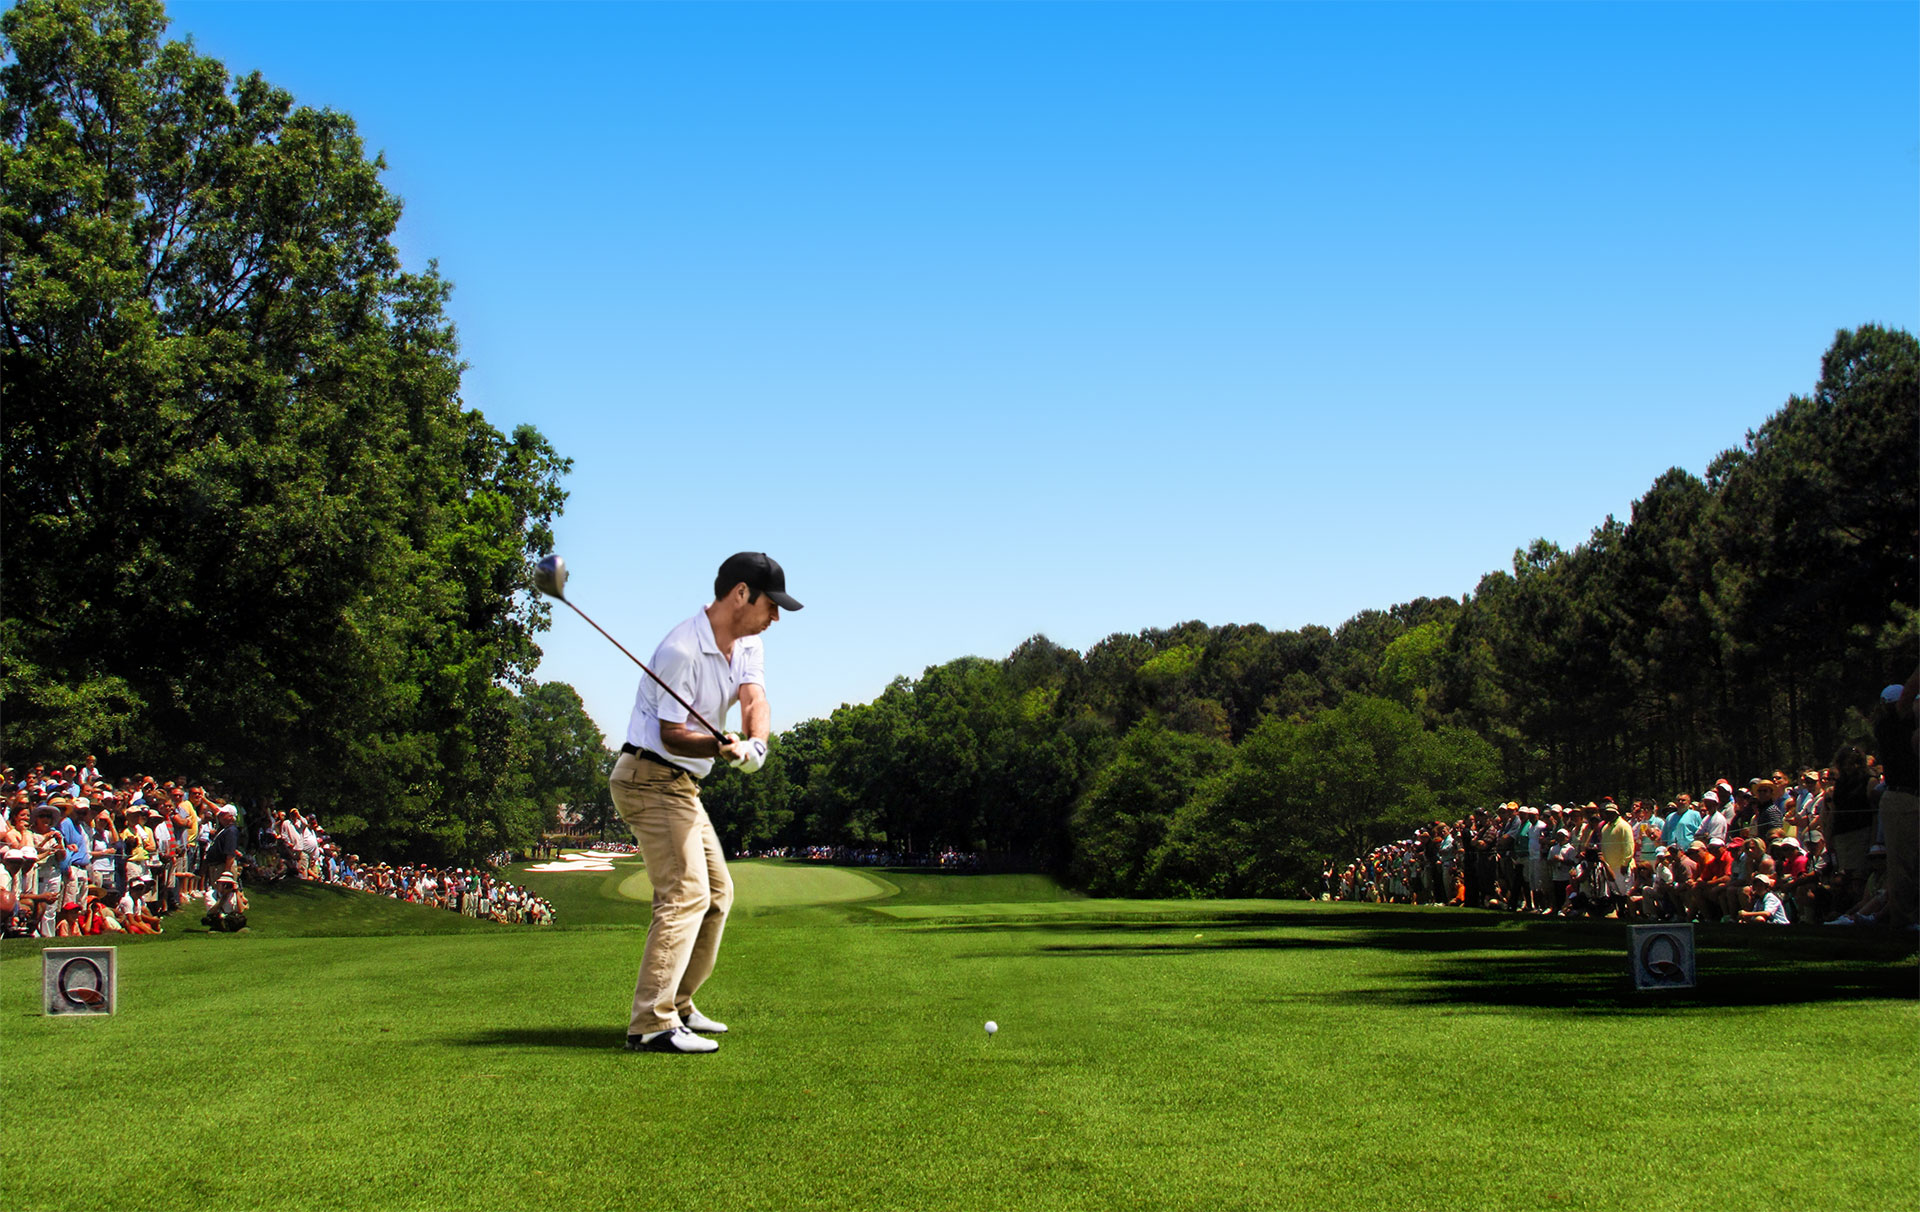
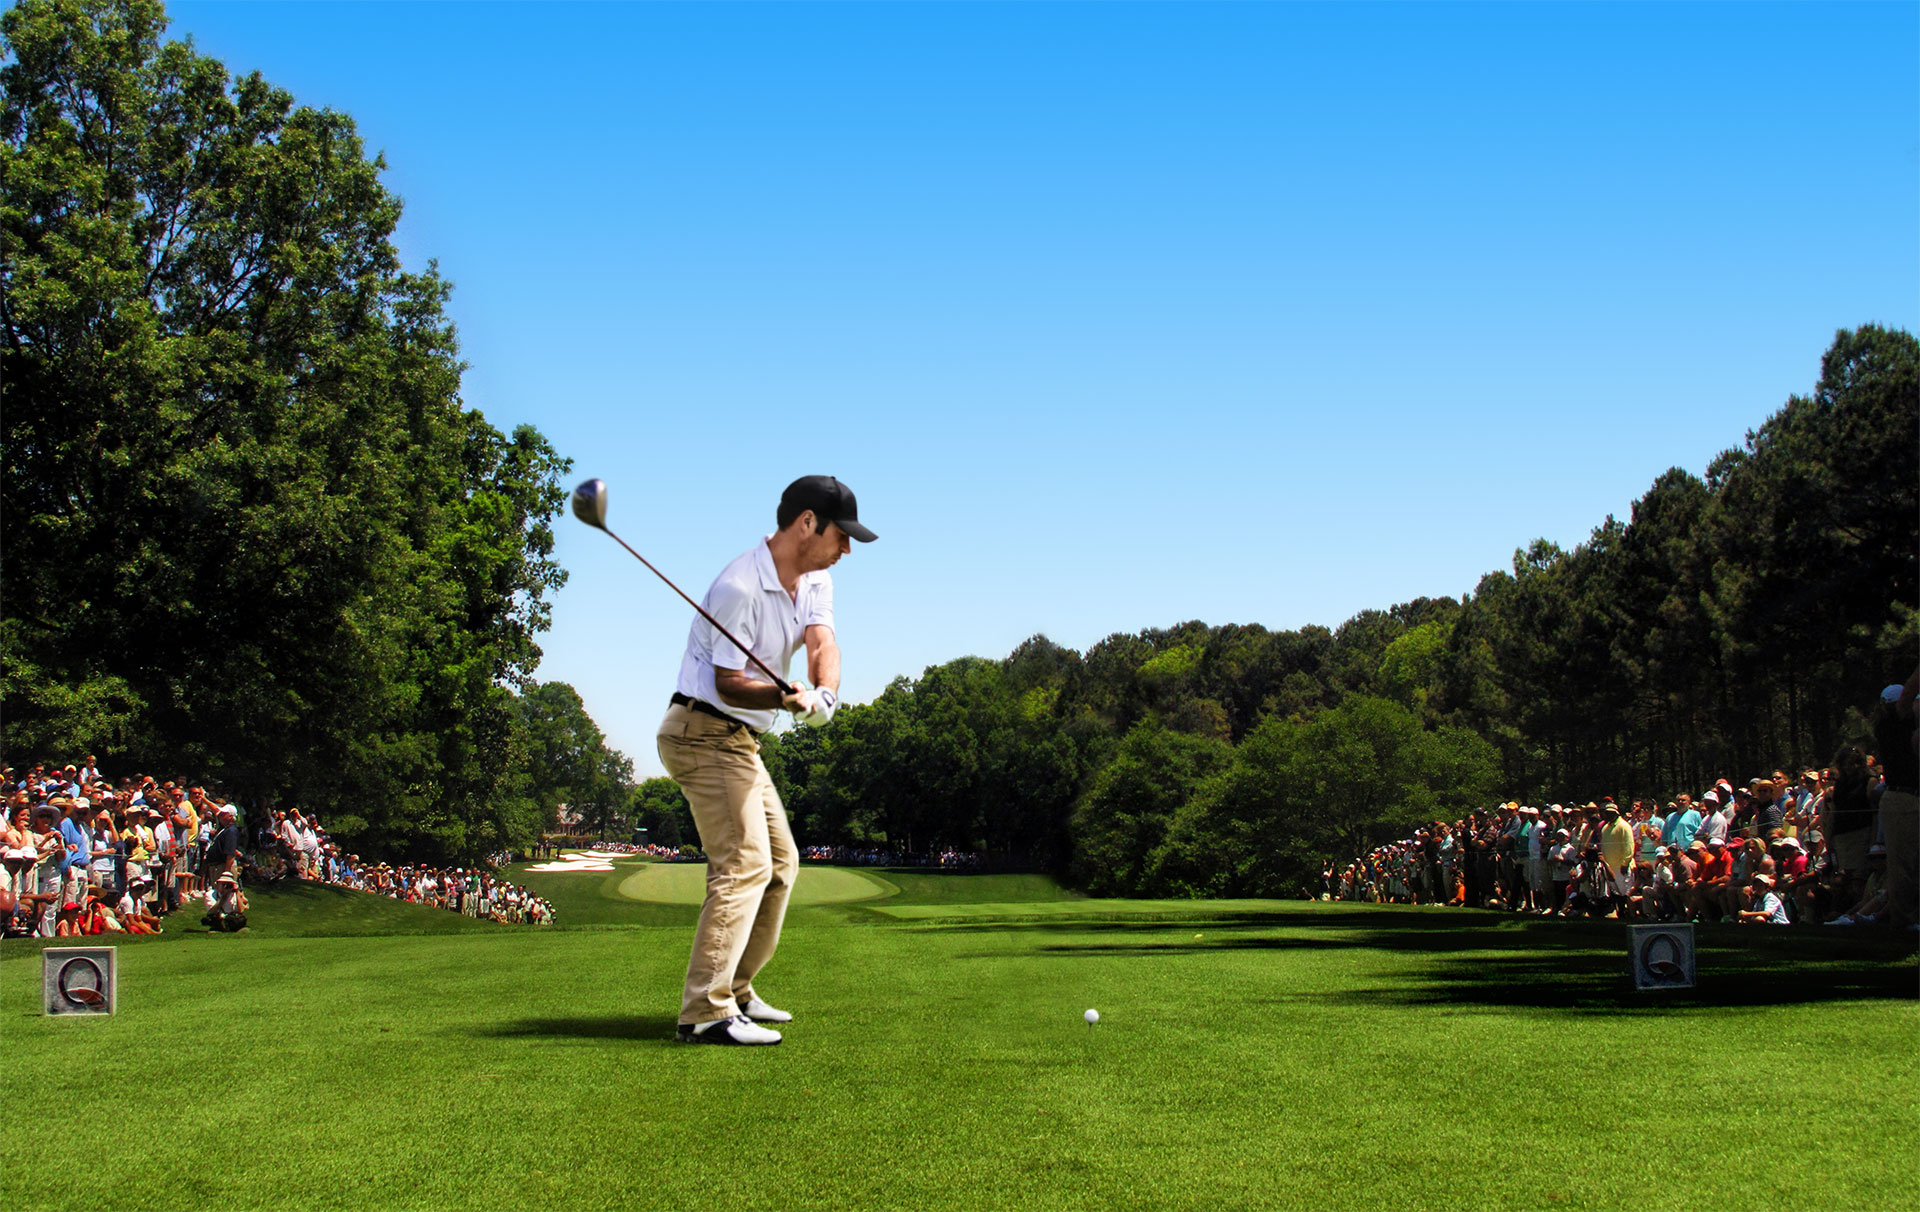
repaired golfer dude to eliminate  transparent png issue #17

Changed region(s): [[0.2188, 0.3663, 0.4688, 0.8853], [0.2812, 0.3969, 0.3438, 0.4579], [0.2812, 0.4579, 0.3125, 0.519]]

diff --git a/index.html b/index.html
@@ -33,11 +33,11 @@
             <div id="intro" data-0="opacity:.2;top:0%;" data-300="opacity:1" data-1299="" data-3400="opacity:1; top:0%;" data-3700="opacity:0;top:-100%;">
 
                 <!-- ready.set.swing. animation -->
-                <div class="centered" id="intro-initial" data-200="opacity:0; top:0px;" data-600="opacity:1" data-800="" data-1200="opacity:0;"></div>
-                <div class="centered" id="intro-ready" data-800="opacity:0; top:0px;" data-1200="opacity:1" data-1400="" data-1800="opacity:0;"></div>
-                <div class="centered" id="intro-set" data-1400="opacity:0; top:0px;" data-1800="opacity:1" data-2000="" data-2400="opacity:0;"></div>
+                <div class="centered" id="intro-initial" data-200="opacity:0; top:0px;" data-600="opacity:1" data-800="" data-1200="opacity:1;" data-2599="" data-2600="opacity:0;"></div>
+                <div class="centered" id="intro-ready" data-800="opacity:0; top:0px;" data-1200="opacity:1" data-1400="" data-1800="opacity:1;" data-2599="" data-2600="opacity:0;"></div>
+                <div class="centered" id="intro-set" data-1400="opacity:0; top:0px;" data-1800="opacity:1" data-2000="" data-2400="opacity:1;" data-2599="" data-2600="opacity:0;"></div>
                 <div class="centered" id="intro-swing" data-2000="opacity:0; top:0px;" data-2400="opacity:1;top:0px;" data-2600="" data-2900="opacity:0; top:0px;"></div>
-
+               
                 <!-- ready.set.swing. text -->
                 <div class="centered" data-200="opacity:0; top:0px;" data-600="opacity:1;top:0px;" data-2600="" data-2900="opacity:0;"></div>
 

diff --git a/css/main.css b/css/main.css
@@ -233,7 +233,7 @@ h4 {
     -o-transform-origin: 0 0;
     -webkit-box-sizing: border-box;
     -webkit-transform-origin: 0 0;
-    background: url(../images/swing1.png) no-repeat bottom;
+    background: url(../images/swing1.jpg) no-repeat center;
     background-size: 100%;
     background-size: cover;
     box-sizing: border-box;
@@ -247,7 +247,7 @@ h4 {
     -o-transform-origin: 0 0;
     -webkit-box-sizing: border-box;
     -webkit-transform-origin: 0 0;
-    background: url(../images/swing2.png) no-repeat bottom;
+    background: url(../images/swing2.jpg) no-repeat center;
     background-size: 100%;
     background-size: cover;
     box-sizing: border-box;
@@ -261,7 +261,7 @@ h4 {
     -o-transform-origin: 0 0;
     -webkit-box-sizing: border-box;
     -webkit-transform-origin: 0 0;
-    background: url(../images/swing3.png) no-repeat bottom;
+    background: url(../images/swing3.jpg) no-repeat center;
     background-size: 100%;
     background-size: cover;
     box-sizing: border-box;
@@ -275,7 +275,7 @@ h4 {
     -o-transform-origin: 0 0;
     -webkit-box-sizing: border-box;
     -webkit-transform-origin: 0 0;
-    background: url(../images/swing4.png) no-repeat bottom;
+    background: url(../images/swing4.jpg) no-repeat center;
     background-size: 100%;
     background-size: cover;
     box-sizing: border-box;

diff --git a/css/ie8-and-down.css b/css/ie8-and-down.css
@@ -1,3 +1,4 @@
+
 h3 {
     color: #fff;
     display: block;
@@ -5,6 +6,15 @@ h3 {
     filter: dropshadow(color=#000000, offx=1, offy=2),alpha(opacity=40);
     /*filter:progid:DXImageTransform.Microsoft.Glow(Color=black,Strength=1), alpha(opacity=40);*/
 }
+
+.item img {
+    background: transparent;
+    -ms-filter: "progid:DXImageTransform.Microsoft.gradient(startColorstr=#00FFFFFF,endColorstr=#00FFFFFF)"; /* IE8 */   
+    filter: progid:DXImageTransform.Microsoft.gradient(startColorstr=#00FFFFFF,endColorstr=#00FFFFFF);   /* IE6 & 7 */      
+    zoom: 1;
+
+}
+
 .infobox {
     margin-left: 0;
 }
